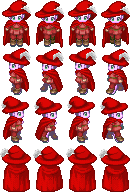
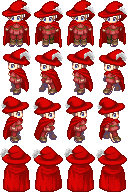
add some more player appearance

diff --git a/final project/src/Player.java b/final project/src/Player.java
@@ -20,7 +20,7 @@ public class Player extends Sprite{
 	private final int SPRITE_COLS = 4;
 	private final int FALL_SPEED = 15;
 	private final double PROPORCEN_TO_BAORD = 1.5;
-	private final int NUMBER_OF_PLAYER_IMGAES = 2;
+	private final int NUMBER_OF_PLAYER_IMGAES = 5;
 
 	private int height;
 	private int width;
